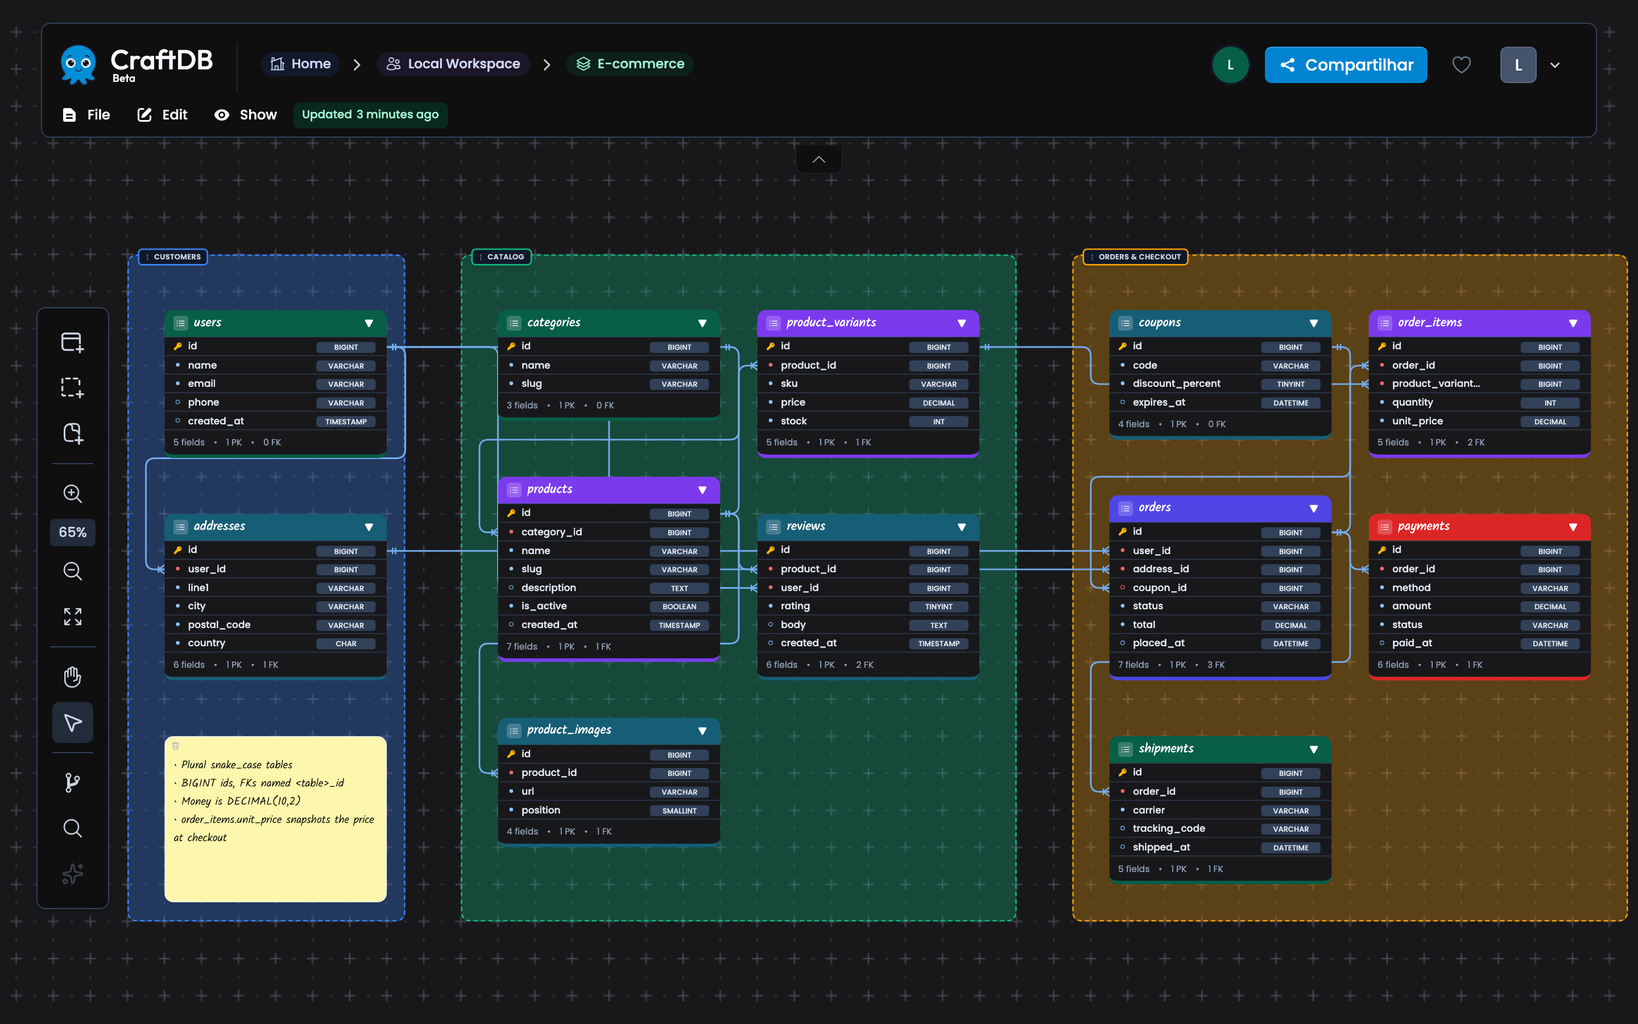
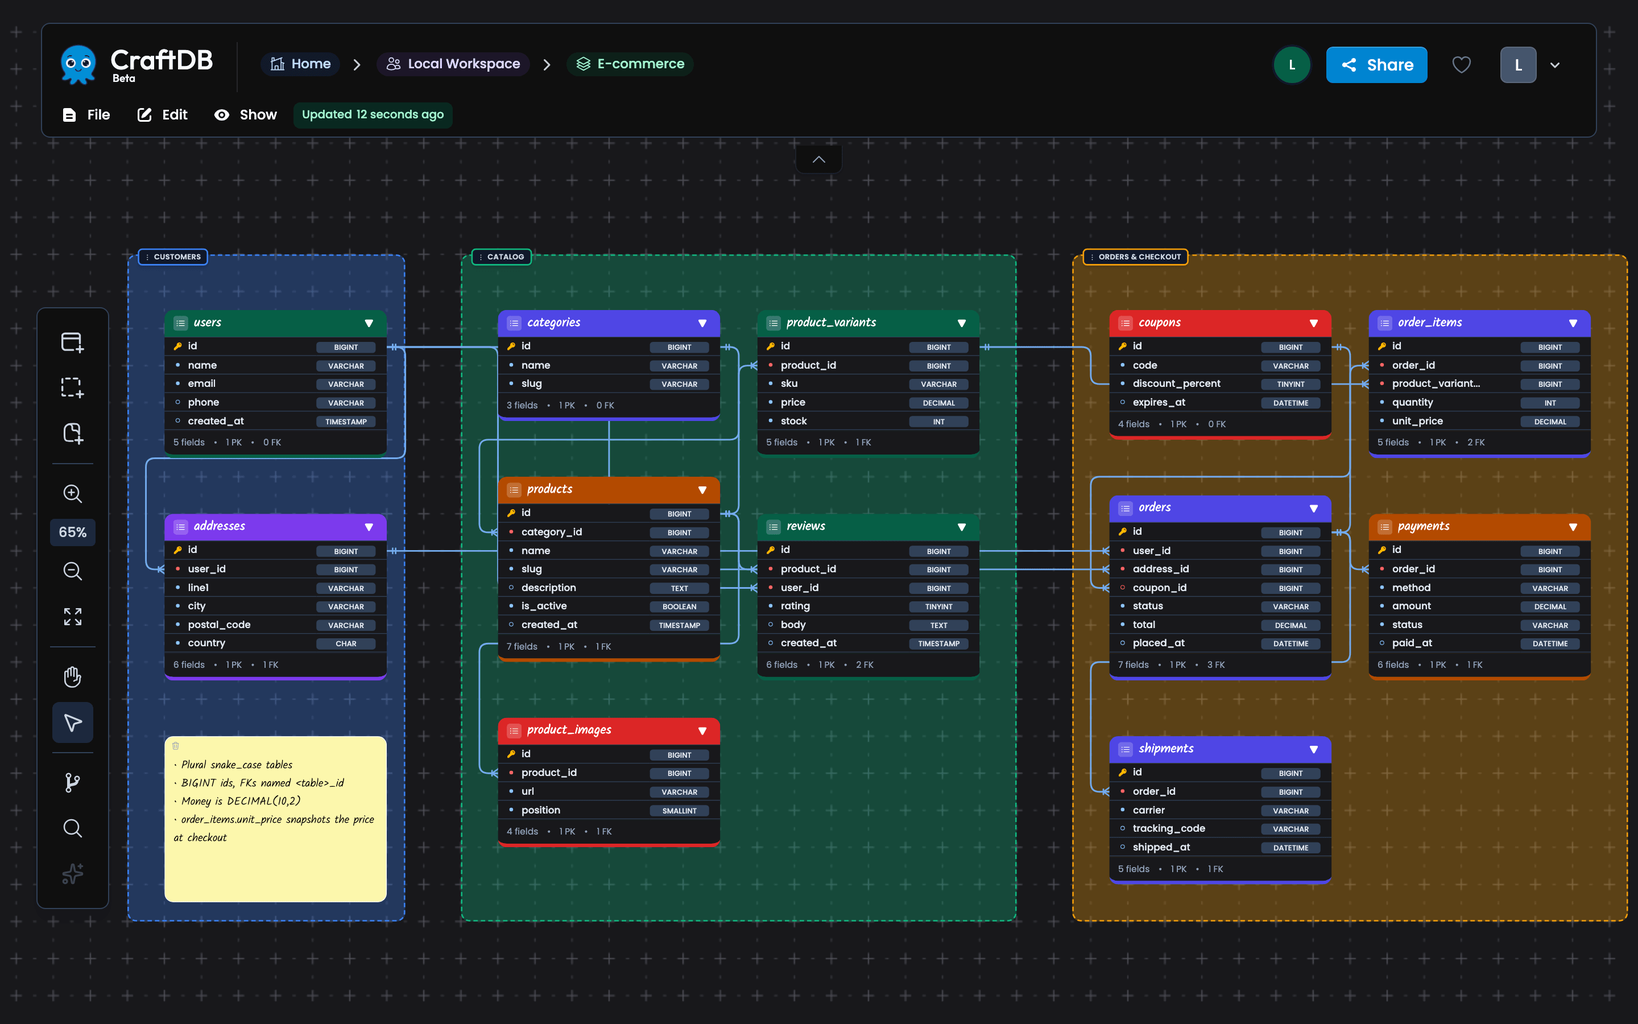
fix(ui): traduz strings fixas em português do canvas e repassa os links de apoio ao Docker
- Topbar e canvas: troca strings fixas em português (botão Share, painel
  lateral da coluna, spotlight, nota, carregamento, grafo de foreign keys
  e mensagens de validação do import) por __() em inglês, com tradução
  em lang/pt_BR.json. O grafo recebe o texto traduzido como parâmetro.
- docker-compose.yml: repassa CRAFTDB_SUPPORT_* ao app com default vazio,
  para a página /support funcionar no Docker.
- README (EN e pt-BR): explica como configurar os links de apoio pelo .env.
- Refaz os prints que mostram a topbar (editor claro/escuro e export).

diff --git a/resources/js/canvas/data/_foreign-keys-graph.js b/resources/js/canvas/data/_foreign-keys-graph.js
@@ -1,11 +1,12 @@
 import * as d3 from 'd3';
 
-export default function foreignKeysGraph(relationships, currentTableId, currentTableName, tablesColors) {
+export default function foreignKeysGraph(relationships, currentTableId, currentTableName, tablesColors, emptyText) {
     return {
         relationships: relationships || [],
         currentTableId: currentTableId,
         currentTableName: currentTableName || `Table ${currentTableId}`,
         tablesColors: tablesColors || {},
+        emptyText: emptyText || "No foreign keys found",
         svg: null,
         simulation: null,
         width: 0,
@@ -100,7 +101,7 @@ export default function foreignKeysGraph(relationships, currentTableId, currentT
                         .attr("text-anchor", "middle")
                         .attr("fill", "#6b7280")
                         .attr("font-size", "14px")
-                        .text("Nenhuma foreign key encontrada");
+                        .text(this.emptyText);
 
                     this.svg = svg;
                 }
@@ -157,7 +158,7 @@ export default function foreignKeysGraph(relationships, currentTableId, currentT
                     .attr("text-anchor", "middle")
                     .attr("fill", "#6b7280")
                     .attr("font-size", "14px")
-                    .text("Nenhuma foreign key encontrada");
+                    .text(this.emptyText);
                 return;
             }
 

diff --git a/resources/views/components/diagram/canvas/overlays/⚡side-editor/side-editor.blade.php b/resources/views/components/diagram/canvas/overlays/⚡side-editor/side-editor.blade.php
@@ -194,7 +194,7 @@
                                                                     wire:click.stop="deleteColumnById({{ $column->id }})"
                                                                     wire:confirm="Tem certeza que deseja deletar esta coluna?"
                                                                     class="p-1 rounded hover:bg-red-50 dark:hover:bg-red-900/20 text-red-500 dark:text-red-400 hover:text-red-600 dark:hover:text-red-300 transition-colors"
-                                                                    title="Deletar coluna"
+                                                                    title="{{ __('Delete column') }}"
                                                                     wire:loading.attr="disabled"
                                                                     wire:loading.class="opacity-50 cursor-not-allowed"
                                                                 >
@@ -231,7 +231,7 @@
                                                                             type="button"
                                                                             wire:click="moveColumnUp({{ $selectedColumn->id }})"
                                                                             class="p-1 rounded hover:bg-zinc-100 dark:hover:bg-zinc-700 text-zinc-600 dark:text-zinc-400 hover:text-zinc-900 dark:hover:text-zinc-100 transition-colors disabled:opacity-30 disabled:cursor-not-allowed"
-                                                                            title="Mover para cima"
+                                                                            title="{{ __('Move up') }}"
                                                                             @if($this->getColumns->first()?->id === $selectedColumn->id) disabled @endif
                                                                         >
                                                                             <flux:icon.chevron-up class="cursor-pointer size-3 text-zinc-600 dark:text-zinc-400"/>
@@ -254,7 +254,7 @@
                                                                             type="button"
                                                                             wire:click="moveColumnDown({{ $selectedColumn->id }})"
                                                                             class="p-1 rounded hover:bg-zinc-100 dark:hover:bg-zinc-700 text-zinc-600 dark:text-zinc-400 hover:text-zinc-900 dark:hover:text-zinc-100 transition-colors disabled:opacity-30 disabled:cursor-not-allowed"
-                                                                            title="Mover para baixo"
+                                                                            title="{{ __('Move down') }}"
                                                                             @if($this->getColumns->last()?->id === $selectedColumn->id) disabled @endif
                                                                         >
                                                                             <flux:icon.chevron-down class="cursor-pointer size-3 text-zinc-600 dark:text-zinc-400"/>
@@ -280,13 +280,13 @@
                                                                 >
                                                                     <!-- Nome da Coluna -->
                                                                     <div>
-                                                                        <label class="block text-xs font-medium text-zinc-700 dark:text-zinc-300 mb-1">Nome</label>
+                                                                        <label class="block text-xs font-medium text-zinc-700 dark:text-zinc-300 mb-1">{{ __('Name') }}</label>
                                                                         <input
                                                                             x-ref="firstInput"
                                                                             type="text"
                                                                             wire:model="columnForm.name"
                                                                             class="w-full text-xs border border-zinc-300 dark:border-zinc-600 rounded-md px-2.5 py-1.5 bg-white dark:bg-zinc-800 text-zinc-900 dark:text-zinc-100 focus:outline-none focus:ring-1 focus:ring-[var(--table-base-bg)] focus:border-[var(--table-base-bg)]"
-                                                                            placeholder="Nome da coluna"
+                                                                            placeholder="{{ __('Column name') }}"
                                                                         />
                                                                         @error('columnForm.name') <span class="text-xs text-red-600 dark:text-red-400">{{ $message }}</span> @enderror
                                                                     </div>
@@ -294,7 +294,7 @@
                                                                     <!-- Tipo e Length -->
                                                                     <div class="grid grid-cols-2 gap-2">
                                                                         <div>
-                                                                            <label class="block text-xs font-medium text-zinc-700 dark:text-zinc-300 mb-1">Tipo</label>
+                                                                            <label class="block text-xs font-medium text-zinc-700 dark:text-zinc-300 mb-1">{{ __('Type') }}</label>
                                                                             <select
                                                                                 wire:model="columnForm.type"
                                                                                 class="w-full text-xs border border-zinc-300 dark:border-zinc-600 rounded-md px-2.5 py-1.5 bg-white dark:bg-zinc-800 text-zinc-900 dark:text-zinc-100 focus:outline-none focus:ring-1 focus:ring-[var(--table-base-bg)] focus:border-[var(--table-base-bg)]"
@@ -312,7 +312,7 @@
                                                                                 wire:model="columnForm.length"
                                                                                 min="0"
                                                                                 class="w-full text-xs border border-zinc-300 dark:border-zinc-600 rounded-md px-2.5 py-1.5 bg-white dark:bg-zinc-800 text-zinc-900 dark:text-zinc-100 focus:outline-none focus:ring-1 focus:ring-[var(--table-base-bg)] focus:border-[var(--table-base-bg)]"
-                                                                                placeholder="Ex: 255"
+                                                                                placeholder="{{ __('e.g. 255') }}"
                                                                             />
                                                                             @error('columnForm.length') <span class="text-xs text-red-600 dark:text-red-400">{{ $message }}</span> @enderror
                                                                         </div>
@@ -320,24 +320,24 @@
 
                                                                     <!-- Default Value -->
                                                                     <div>
-                                                                        <label class="block text-xs font-medium text-zinc-700 dark:text-zinc-300 mb-1">Valor Padrão</label>
+                                                                        <label class="block text-xs font-medium text-zinc-700 dark:text-zinc-300 mb-1">{{ __('Default value') }}</label>
                                                                         <input
                                                                             type="text"
                                                                             wire:model="columnForm.defaultValue"
                                                                             class="w-full text-xs border border-zinc-300 dark:border-zinc-600 rounded-md px-2.5 py-1.5 bg-white dark:bg-zinc-800 text-zinc-900 dark:text-zinc-100 focus:outline-none focus:ring-1 focus:ring-[var(--table-base-bg)] focus:border-[var(--table-base-bg)]"
-                                                                            placeholder="Ex: 'default' ou NULL"
+                                                                            placeholder="{{ __('e.g. \'default\' or NULL') }}"
                                                                         />
                                                                         @error('columnForm.defaultValue') <span class="text-xs text-red-600 dark:text-red-400">{{ $message }}</span> @enderror
                                                                     </div>
 
                                                                     <!-- Comment -->
                                                                     <div>
-                                                                        <label class="block text-xs font-medium text-zinc-700 dark:text-zinc-300 mb-1">Comentário</label>
+                                                                        <label class="block text-xs font-medium text-zinc-700 dark:text-zinc-300 mb-1">{{ __('Comment') }}</label>
                                                                         <textarea
                                                                             wire:model="columnForm.comment"
                                                                             rows="2"
                                                                             class="w-full text-xs border border-zinc-300 dark:border-zinc-600 rounded-md px-2.5 py-1.5 bg-white dark:bg-zinc-800 text-zinc-900 dark:text-zinc-100 focus:outline-none focus:ring-1 focus:ring-[var(--table-base-bg)] focus:border-[var(--table-base-bg)] resize-none"
-                                                                            placeholder="Descrição da coluna..."
+                                                                            placeholder="{{ __('Column description...') }}"
                                                                         ></textarea>
                                                                         @error('columnForm.comment') <span class="text-xs text-red-600 dark:text-red-400">{{ $message }}</span> @enderror
                                                                     </div>
@@ -353,7 +353,7 @@
                                                     @endif
                                                 @else
                                                     <div class="bg-white dark:bg-zinc-800/50 rounded-lg h-full flex justify-center items-center border border-zinc-200 dark:border-zinc-700 p-8 text-center">
-                                                        <p class="text-sm text-zinc-500 dark:text-zinc-400">Selecione uma coluna para ver os detalhes</p>
+                                                        <p class="text-sm text-zinc-500 dark:text-zinc-400">{{ __('Select a column to see its details') }}</p>
                                                     </div>
                                                 @endif
                                             </div>
@@ -389,7 +389,7 @@
                                                 </div>
                                                 <div
                                                     id="foreign-keys-graph"
-                                                    x-data="foreignKeysGraph(@js($this->getRelationships), @js($this->getTable->id), @js($this->getTable->name), @js($this->getTablesWithColors))"
+                                                    x-data="foreignKeysGraph(@js($this->getRelationships), @js($this->getTable->id), @js($this->getTable->name), @js($this->getTablesWithColors), @js(__('No foreign keys found')))"
                                                     @table-side-editor::column-added.window="
                                                         // Atualizar dados e re-renderizar gráfico
                                                         relationships = @js($this->getRelationships);

diff --git a/resources/views/components/diagram/canvas/overlays/⚡spotlight/spotlight.blade.php b/resources/views/components/diagram/canvas/overlays/⚡spotlight/spotlight.blade.php
@@ -35,7 +35,7 @@
                                     <div class="flex items-center gap-3 mt-1">
                                         <span class="text-xs text-gray-500 dark:text-gray-400 flex items-center gap-1">
                                             <flux:icon.layout-grid class="size-3" />
-                                            {{ $item->columns_count ?? 0 }} {{ ($item->columns_count ?? 0) === 1 ? 'coluna' : 'colunas' }}
+                                            {{ $item->columns_count ?? 0 }} {{ ($item->columns_count ?? 0) === 1 ? __('column') : __('columns') }}
                                         </span>
                                     </div>
                                 </div>
@@ -57,10 +57,10 @@
                         </div>
                         <div>
                             <p class="text-sm font-medium text-gray-900 dark:text-gray-100">
-                                Nenhuma tabela encontrada
+                                {{ __('No tables found') }}
                             </p>
                             <p class="text-xs text-gray-500 dark:text-gray-400 mt-1">
-                                Tente buscar por outro termo
+                                {{ __('Try a different search term') }}
                             </p>
                         </div>
                     </div>
@@ -73,10 +73,10 @@
                         </div>
                         <div>
                             <p class="text-sm font-medium text-gray-900 dark:text-gray-100">
-                                Busque por tabelas
+                                {{ __('Search tables') }}
                             </p>
                             <p class="text-xs text-gray-500 dark:text-gray-400 mt-1">
-                                Digite o nome de uma tabela para começar
+                                {{ __('Type a table name to get started') }}
                             </p>
                         </div>
                     </div>

diff --git a/resources/views/components/diagram/canvas/_partials/table/structure.blade.php b/resources/views/components/diagram/canvas/_partials/table/structure.blade.php
@@ -159,7 +159,7 @@
                                         <!-- Valor Padrão -->
                                         @if(($column->default_value ?? null))
                                             <div class="pt-1 border-t border-gray-200 dark:border-zinc-700">
-                                                <p class="text-[10px] font-medium text-gray-500 dark:text-zinc-400 uppercase mb-0.5">Valor Padrão</p>
+                                                <p class="text-[10px] font-medium text-gray-500 dark:text-zinc-400 uppercase mb-0.5">{{ __('Default value') }}</p>
                                                 <p class="text-xs text-zinc-300 font-mono rounded">
                                                     {{ $column->default_value }}
                                                 </p>
@@ -169,7 +169,7 @@
                                         <!-- Comentário -->
                                         @if(($column->comment ?? null))
                                             <div class="pt-1 border-t border-gray-200 dark:border-zinc-700">
-                                                <p class="text-[10px] font-medium text-gray-500 dark:text-zinc-400 uppercase mb-0.5">Comentário</p>
+                                                <p class="text-[10px] font-medium text-gray-500 dark:text-zinc-400 uppercase mb-0.5">{{ __('Comment') }}</p>
                                                 <p class="text-xs text-zinc-300 leading-relaxed">
                                                     {{ $column->comment }}
                                                 </p>

diff --git a/app/Rules/Diagram/ImportValidFileType.php b/app/Rules/Diagram/ImportValidFileType.php
@@ -28,12 +28,12 @@ class ImportValidFileType implements ValidationRule
         $mime = $value->getMimeType();
 
         if (!in_array($ext, $allowedExtensions)) {
-            $fail("A extensão .$ext não é permitida. Use apenas .sql, .zip ou .php.");
+            $fail(__('The .:ext extension is not allowed. Use only .sql, .zip or .php.', ['ext' => $ext]));
             return;
         }
 
         if (!in_array($mime, $allowedMimes)) {
-            $fail("O tipo MIME '$mime' é inválido para este tipo de arquivo.");
+            $fail(__('The MIME type ":mime" is not valid for this file type.', ['mime' => $mime]));
         }
     }
 }

diff --git a/resources/views/components/diagram/canvas/ui/loading.blade.php b/resources/views/components/diagram/canvas/ui/loading.blade.php
@@ -6,7 +6,7 @@
         </div>
 
         <div class="flex flex-col items-center gap-3">
-            <span class="text-base font-medium text-gray-200">Carregando tabelas</span>
+            <span class="text-base font-medium text-gray-200">{{ __('Loading tables') }}</span>
             <div class="flex gap-1.5">
                 <span class="w-1.5 h-1.5 bg-gray-300 rounded-full animate-bounce" style="animation-delay: 0s;"></span>
                 <span class="w-1.5 h-1.5 bg-gray-300 rounded-full animate-bounce" style="animation-delay: 0.2s;"></span>

diff --git a/resources/views/components/diagram/canvas/elements/⚡note/note.blade.php b/resources/views/components/diagram/canvas/elements/⚡note/note.blade.php
@@ -27,7 +27,7 @@
             @mousedown.stop="$wire.remove()"
             wire:loading.attr="disabled"
             class="absolute top-1 left-1.5 z-20 size-4 flex items-center justify-center rounded hover:bg-red-100 dark:hover:bg-red-900/20 transition-all duration-200"
-            title="Remover nota"
+            title="{{ __('Remove note') }}"
         >
             <flux:icon.trash class="size-3 text-gray-500 dark:text-zinc-400 hover:text-red-600 dark:hover:text-red-400 transition-colors" />
         </button>

diff --git a/resources/views/components/diagram/canvas/ui/topbar.blade.php b/resources/views/components/diagram/canvas/ui/topbar.blade.php
@@ -90,7 +90,7 @@
                     <div>
                         <flux:dropdown>
                             <flux:button class="font-light" size="sm" color="sky" variant="primary" icon="share">
-                                {{ __('Compartilhar') }}
+                                {{ __('Share') }}
                             </flux:button>
 
                             <flux:menu keep-open class="min-w-80">

diff --git a/README.pt-BR.md b/README.pt-BR.md
@@ -165,6 +165,26 @@ CRAFTDB_PORT=8090
 
 > As variáveis usam o prefixo `CRAFTDB_` de propósito: o Docker Compose também lê esse `.env`, que o Laravel usa no desenvolvimento local.
 
+### Links da página de apoio
+
+A página **Apoiar** (`/support`) mostra só os links que você preencher. Todos são opcionais e vêm vazios por padrão:
+
+| Variável | Mostra |
+|---|---|
+| `CRAFTDB_SUPPORT_REPO_URL` | Botão para dar estrela no repositório |
+| `CRAFTDB_SUPPORT_GITHUB_SPONSORS_URL` | Botão do GitHub Sponsors |
+| `CRAFTDB_SUPPORT_KOFI_URL` | Botão do Ko-fi |
+| `CRAFTDB_SUPPORT_BUYMEACOFFEE_URL` | Botão do Buy Me a Coffee |
+| `CRAFTDB_SUPPORT_PIX_KEY` | Chave Pix com botão de copiar |
+
+As URLs precisam começar com `http://` ou `https://`. Adicione as variáveis no mesmo `.env` e rode `docker compose up -d` para aplicar:
+
+```bash
+# .env
+CRAFTDB_SUPPORT_REPO_URL=https://gitlab.com/giovannirz/craftdb
+CRAFTDB_SUPPORT_BUYMEACOFFEE_URL=https://buymeacoffee.com/sua-pagina
+```
+
 Você pode se conectar ao banco com qualquer cliente SQL: host `127.0.0.1`, porta `3307`, banco `craftdb`, usuário `craftdb`, senha `craftdb`.
 
 ## 🔄 Atualização e backup

diff --git a/README.md b/README.md
@@ -165,6 +165,26 @@ CRAFTDB_PORT=8090
 
 > The variables use the `CRAFTDB_` prefix on purpose: Docker Compose also reads this `.env`, which Laravel uses for local development.
 
+### Support page links
+
+The **Support** page (`/support`) shows only the links you fill in. All of them are optional and empty by default:
+
+| Variable | Shows |
+|---|---|
+| `CRAFTDB_SUPPORT_REPO_URL` | Button to star the repository |
+| `CRAFTDB_SUPPORT_GITHUB_SPONSORS_URL` | GitHub Sponsors button |
+| `CRAFTDB_SUPPORT_KOFI_URL` | Ko-fi button |
+| `CRAFTDB_SUPPORT_BUYMEACOFFEE_URL` | Buy Me a Coffee button |
+| `CRAFTDB_SUPPORT_PIX_KEY` | Pix key with a copy button |
+
+URLs must start with `http://` or `https://`. Add them to the same `.env` and run `docker compose up -d` to apply:
+
+```bash
+# .env
+CRAFTDB_SUPPORT_REPO_URL=https://gitlab.com/giovannirz/craftdb
+CRAFTDB_SUPPORT_BUYMEACOFFEE_URL=https://buymeacoffee.com/your-page
+```
+
 You can connect to the database with any SQL client: host `127.0.0.1`, port `3307`, database `craftdb`, user `craftdb`, password `craftdb`.
 
 ## 🔄 Updating and backups
